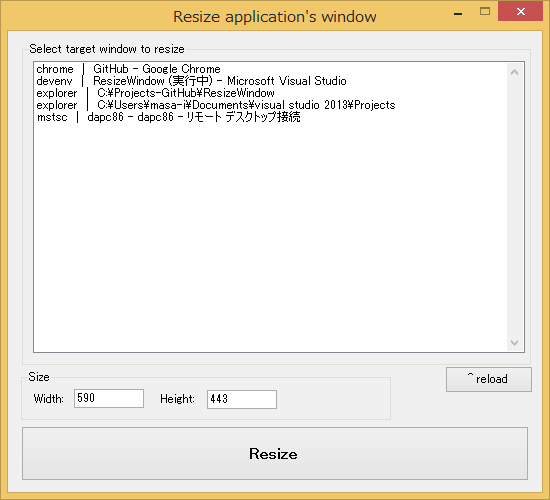
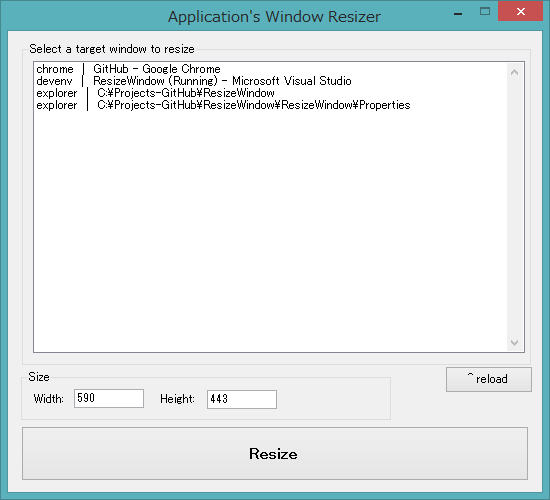
fixed mistyped and deleted unnecessary files.

diff --git a/ResizeWindow/ResizeWindowForm.designer.cs b/ResizeWindow/ResizeWindowForm.designer.cs
@@ -140,7 +140,7 @@
             this.MaximizeBox = false;
             this.Name = "MainWindow";
             this.ShowInTaskbar = false;
-            this.Text = "Resize application\'s window";
+            this.Text = "Application\'s Window Resizer";
             this.TopMost = true;
             this.GroupBox2.ResumeLayout(false);
             this.GroupBox2.PerformLayout();

diff --git a/README.md b/README.md
@@ -1,6 +1,6 @@
 # ResizeWindow
-Resize external application's window on Windows OS. It is useful for screen capture.
+Resize an external application's window on Windows OS. It is useful for screen capture.
 
 ![Sample](appsample.png)
 
-MIT licence.
+MIT license.
